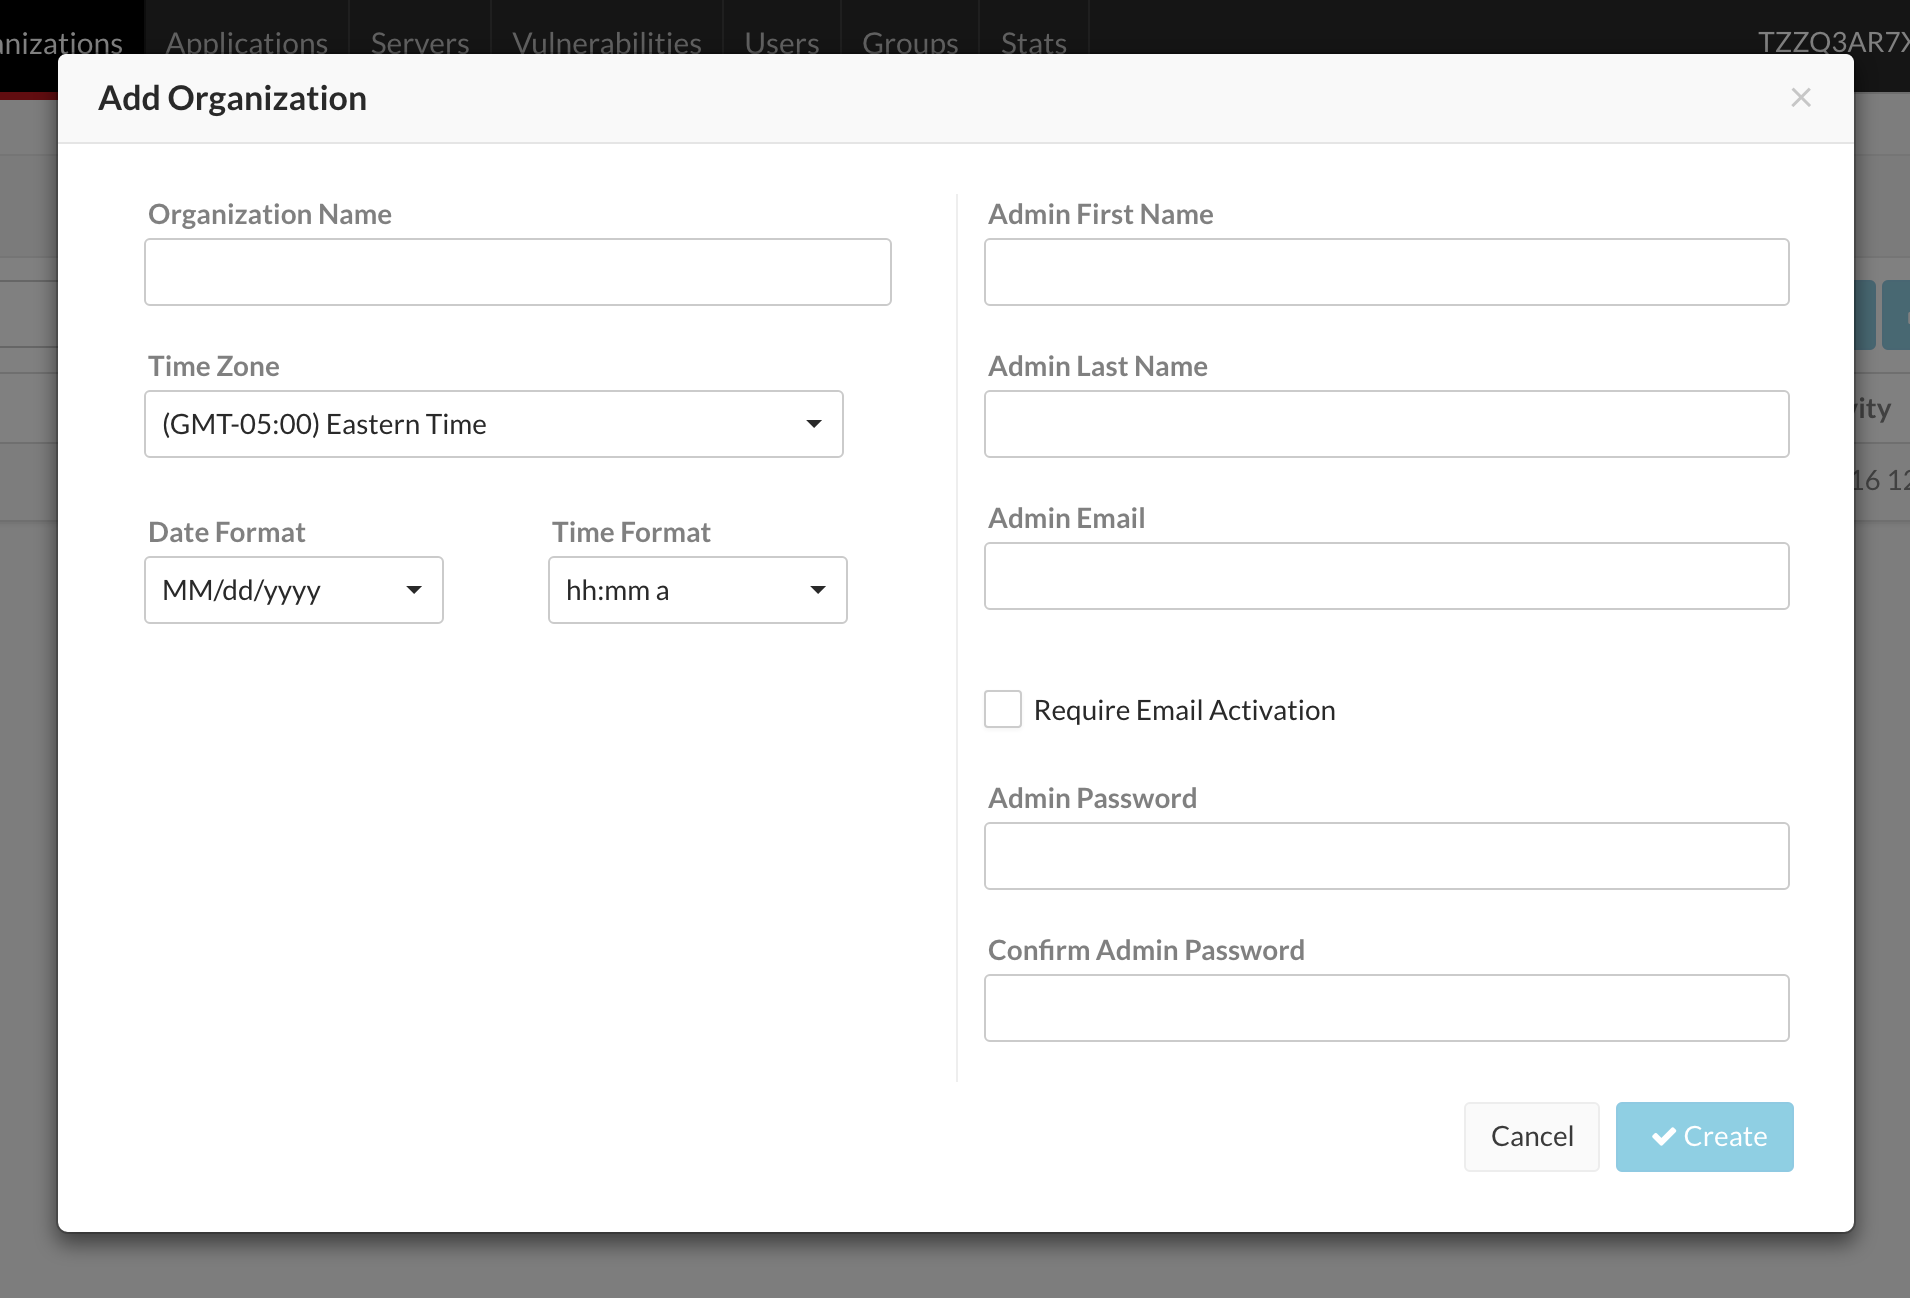
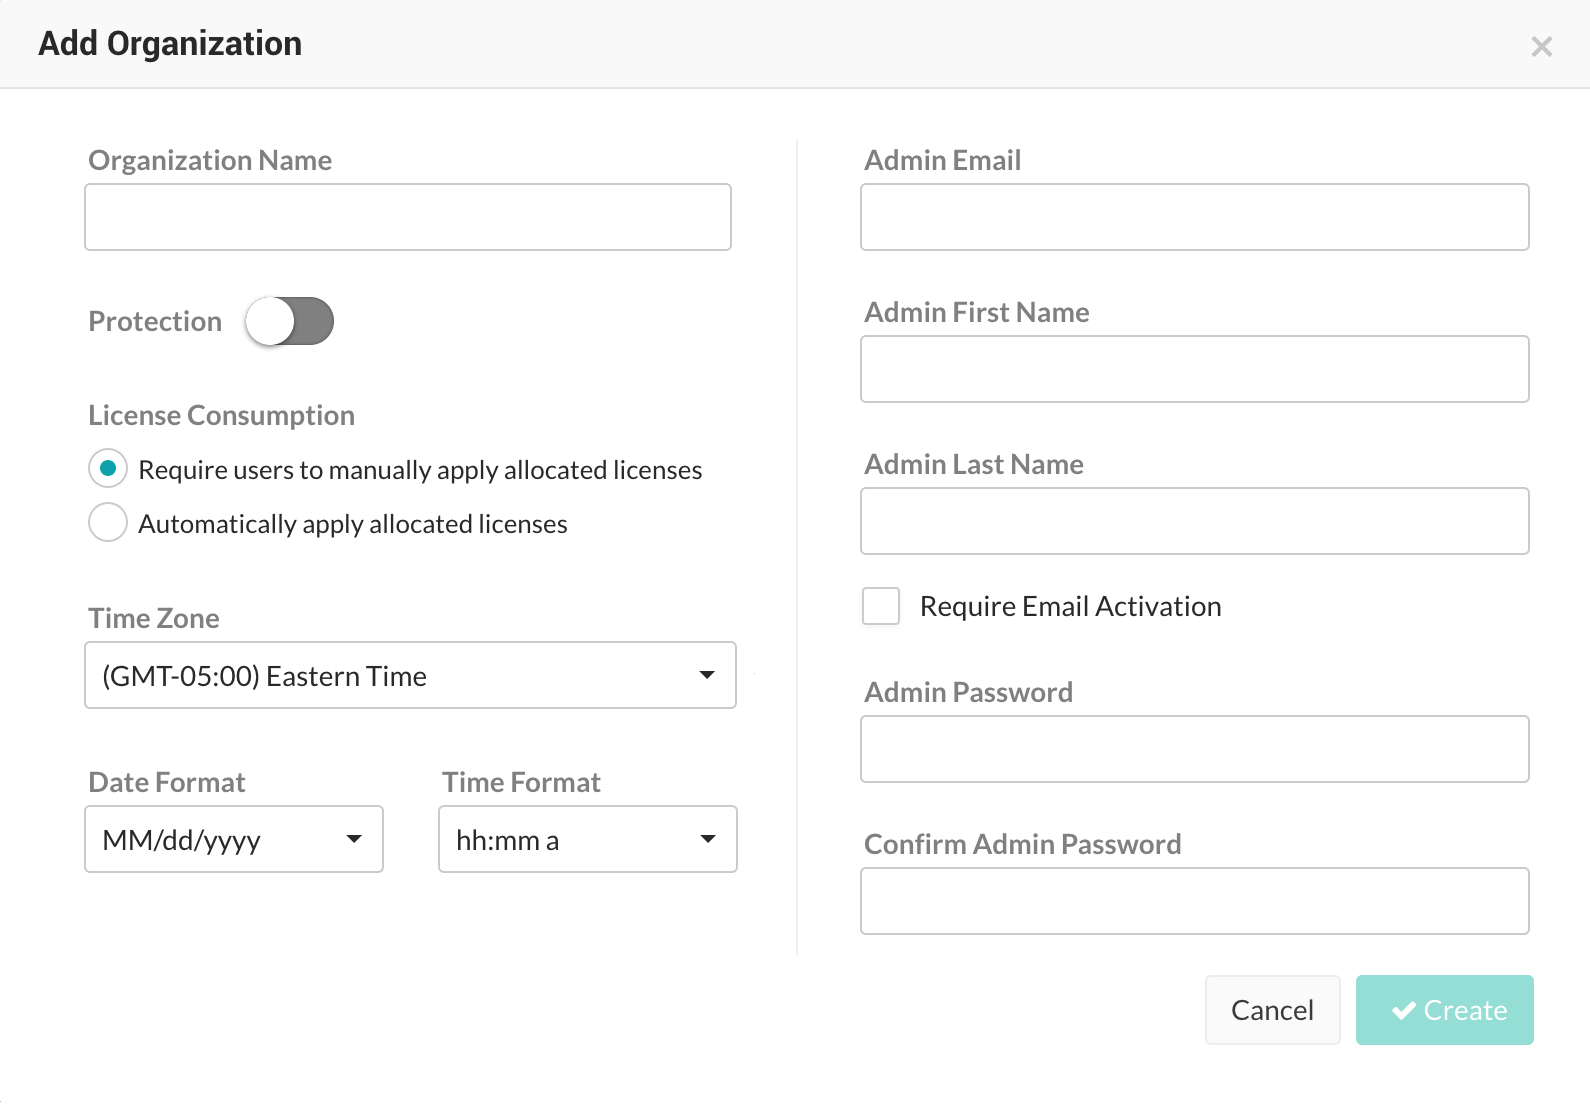
edit 'create orgs'

diff --git a/content/admin/onboard_team/CreateOrgs.md b/content/admin/onboard_team/CreateOrgs.md
@@ -1,34 +1,48 @@
 <!--
 title: "Create Organizations"
-description: "Creating Organizations within Contrast TeamServer"
-tags: "Admin onboarding TeamServer organizations license defense protect assess create"
+description: "Create Organizations in the Contrast UI"
+tags: "Admin onboarding organizations license defense protect assess create"
 -->
 
 Contrast is a multi-tenant architecture in which a single software product can support many communities of related or potentially unrelated customers. Each customer is defined as a tenant. In Contrast, organizations serve as the tenant or customer. An organization is a group of related users and applications that are associated together for a business purpose. 
 
-Organizations can be created by the System Administrator. All organizations created in Contrast will require a unique name as well as an administrator to oversee the organization. This administrator can be a new user or an existing Contrast user.  
+Organizations can be created by the System Administrator (SuperAdmin). All organizations created in Contrast require a unique name as well as an Organization Administrator (OrgAdmin) to oversee the organization. The OrgAdmin can be a new or existing Contrast user.  
 
-1. Log in to Contrast 
-2. Navigate to the user menu in the upper right 
-3. Select **SuperAdmin** in the "Use Contrast Security as:" section
-4. Select **Organizations** from the top navigation
-5. Click the **Add Organization** button
-6. Fill out all fields. Do **not** check *Require Email Activation* unless you have a mail server set up with TeamServer.
+## Add an Organization 
 
-<a href="assets/images/Create_Org.png" rel="lightbox" title="Add Organization"><img class="thumbnail" src="assets/images/Create_Org.png"/></a>
+To add an organization in the UI, to the **user menu > SuperAdmin > Organizations page**. Click the button to **Add Organization**. In the **Add Organization** dialog, complete the following fields. 
 
-You may continue to create as many organizations as you need for multi-tenant support. To administor a particular organization, you can access that via the user menu in the upper right by selecting that organization. 
+* Enter the new **Organization Name**. 
+* Use the toggle to enable **Protect**, if appropriate. 
+* In the **License Consumption** section, use the radio buttons to **manually** or **automatically** apply allocated licenses. 
+* Use the dropdown menus to choose a **Time Zone**, and **Date** and **Time** formats. 
+* Complete the profile information for the OrgAdmin - including their email, name and password - as it should appear in the UI. 
+* **Only** check the box to **Require Email Activation** if you have a mail server set up with the Contrast application.
+* Click the button to **Create** the organization. 
+
+<a href="assets/images/Create-org.png" rel="lightbox" title="Complete the fields in the Add Organization dialog"><img class="thumbnail" src="assets/images/Create-org.png"/></a>
+
+You may continue to create as many organizations as you need for multi-tenant support. 
 
 ## License Consumption
-A System Administrator (SuperAdmin) can designate how an organization's licenses get applied. They may require users to manually apply allocated licenses or automatically apply allocated licenses as new assets (applications and server) are onboarded. 
 
-Organizations are granted licenses by the System Administrator (SuperAdmin) for On-Premises installations and by the Contrast team for SaaS. If you are administoring an On-Premises installation, you can allocate both Assessment and Protection licenses to specific organizations via the row menu. The number of licenses as well as expiration dates can be defined. This allows Organization Administrators and users with the proper role to license applications and servers within their organization.
+Organizations are granted licenses by the SuperAdmin for Enterprise-on-Premises (EOP) installations and by the Contrast team for SaaS. A SuperAdmin can designate [how an organization's licenses are applied](admin-manageorgs.html#manage-license). They may require users to manually apply allocated licenses or automatically apply allocated licenses as new assets (applications and server) are onboarded. 
 
-## Enabling Protection
-Customers making use of Contrast's Protection capability can enable one or more organizations after the organization is created and/or licensed. There is a toggle switch to enable Protection in the main Organizations table.
+### Allocate licenses
 
-Upon enabling Protection, the administrator will be prompted to select which users to grant these permissions to.
+If you're administering an EOP installation, you can allocate both Assess and Protect licenses to specific organizations. (This allows OrgAdmins and users with the proper role to license applications and servers within their organization.)
 
-For more information, read about how to [Manage Organizations](admin-manageorgsmultiple.html#manage-org). 
+In the **Organizations** grid, find the organization and click the carrot in the grid row. Choose **Allocate Licenses** in the row action menu. Define the the number of licenses as well as expiration dates in the dialog that appears. 
+
+<a href="assets/images/Allocate-licenses-system-settings.png" rel="lightbox" title="Allocate licenses in the Organizations grid"><img class="thumbnail" src="assets/images/Allocate-licenses-system-settings.png"/></a>
+
+## Enable Protect
+
+Contrast Protect customers can enable one or more organizations to use Protect after the organization is created and/or licensed. Go to the **Organizations** page, and use the toggle in the grid enable or disable coverage. Once Protect is enabled, Contrast asks you to select which users within the organization will receive Protect permissions.
+
+## Organization Administration 
+
+To view the UI for a particular organization, go to the **user menu** and select the organization name. For more information, read about how to [Manage Organizations](admin-manageorgsmultiple.html#manage-org). 
+
 
 
